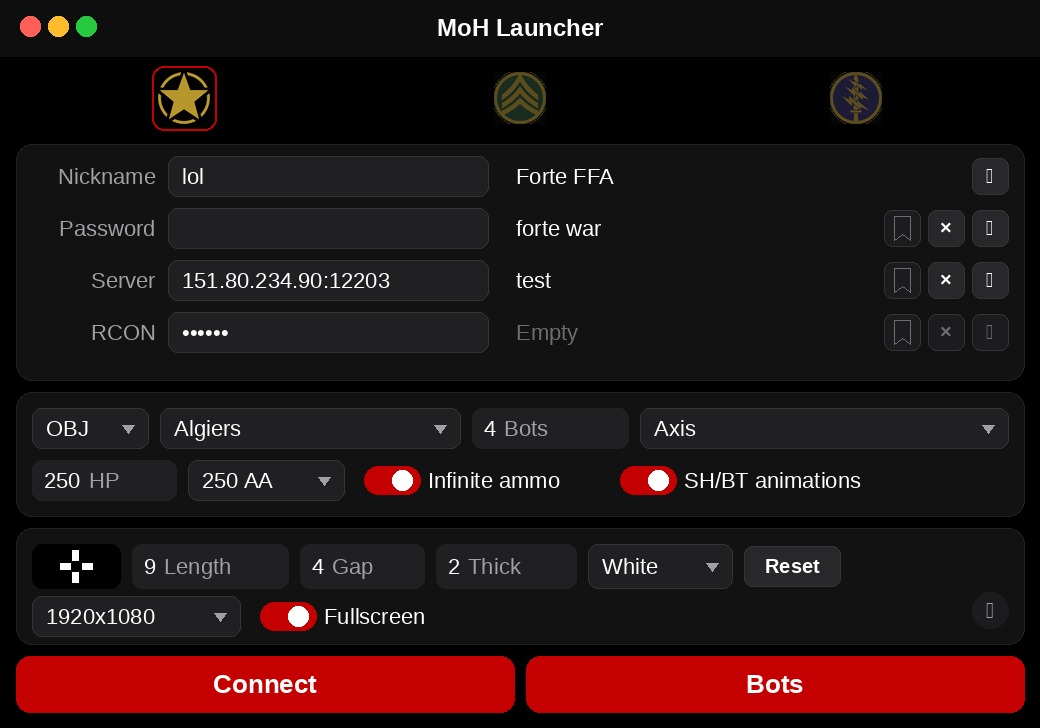
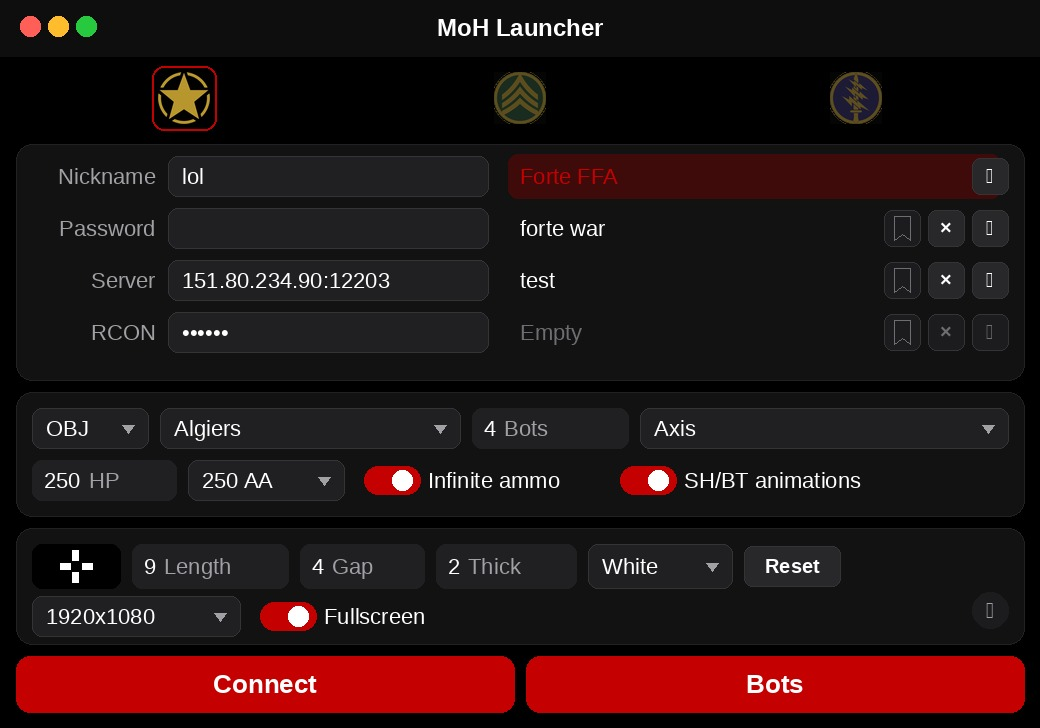
Highlight the shortcut that matches the server
The name turns red and the row fills when the address and passwords are that shortcut.

diff --git a/Launcher.swift b/Launcher.swift
@@ -669,11 +669,15 @@ struct LauncherView: View {
     private func shortcutRow(_ index: Int) -> some View {
         let shortcut = config.shortcuts[index]
         let empty = shortcut.name.isEmpty
+        let loaded = !empty
+            && shortcut.address == config.trimmedAddress
+            && shortcut.password == config.password
+            && shortcut.rcon == config.rcon
         return HStack(spacing: 4) {
             Button { config.applyShortcut(index) } label: {
                 Text(empty ? "Empty" : shortcut.name)
                     .lineLimit(1)
-                    .foregroundStyle(empty ? .secondary : .primary)
+                    .foregroundStyle(empty ? .secondary : (loaded ? accent : .primary))
                     .frame(maxWidth: .infinity, alignment: .leading)
                     .contentShape(Rectangle())
             }
@@ -685,7 +689,7 @@ struct LauncherView: View {
                     shortcutName = empty ? config.trimmedAddress : shortcut.name
                     namingShortcut = index
                 } label: {
-                    Image(systemName: "bookmark")
+                    Image(systemName: loaded ? "bookmark.fill" : "bookmark")
                 }
                 .disabled(config.trimmedAddress.isEmpty)
                 .help("Save the server and passwords above in this shortcut")
@@ -705,6 +709,11 @@ struct LauncherView: View {
             .help("Connect to \(shortcut.name)")
         }
         .controlSize(.small)
+        .padding(.horizontal, 4)
+        .background(
+            RoundedRectangle(cornerRadius: 5, style: .continuous)
+                .fill(loaded ? accent.opacity(0.22) : Color.clear)
+        )
     }
 
     @ViewBuilder private var botRows: some View {

diff --git a/README.md b/README.md
@@ -2,7 +2,7 @@
 
 MoH Launcher for MoHAA. The window is black, with red controls.
 
-![Launcher](preview.jpg?v=18)
+![Launcher](preview.jpg?v=19)
 
 Connect opens `openmohaa.app`. Bots opens `mohbots.app`. The first shortcut is Forte FFA and cannot be changed.
 
